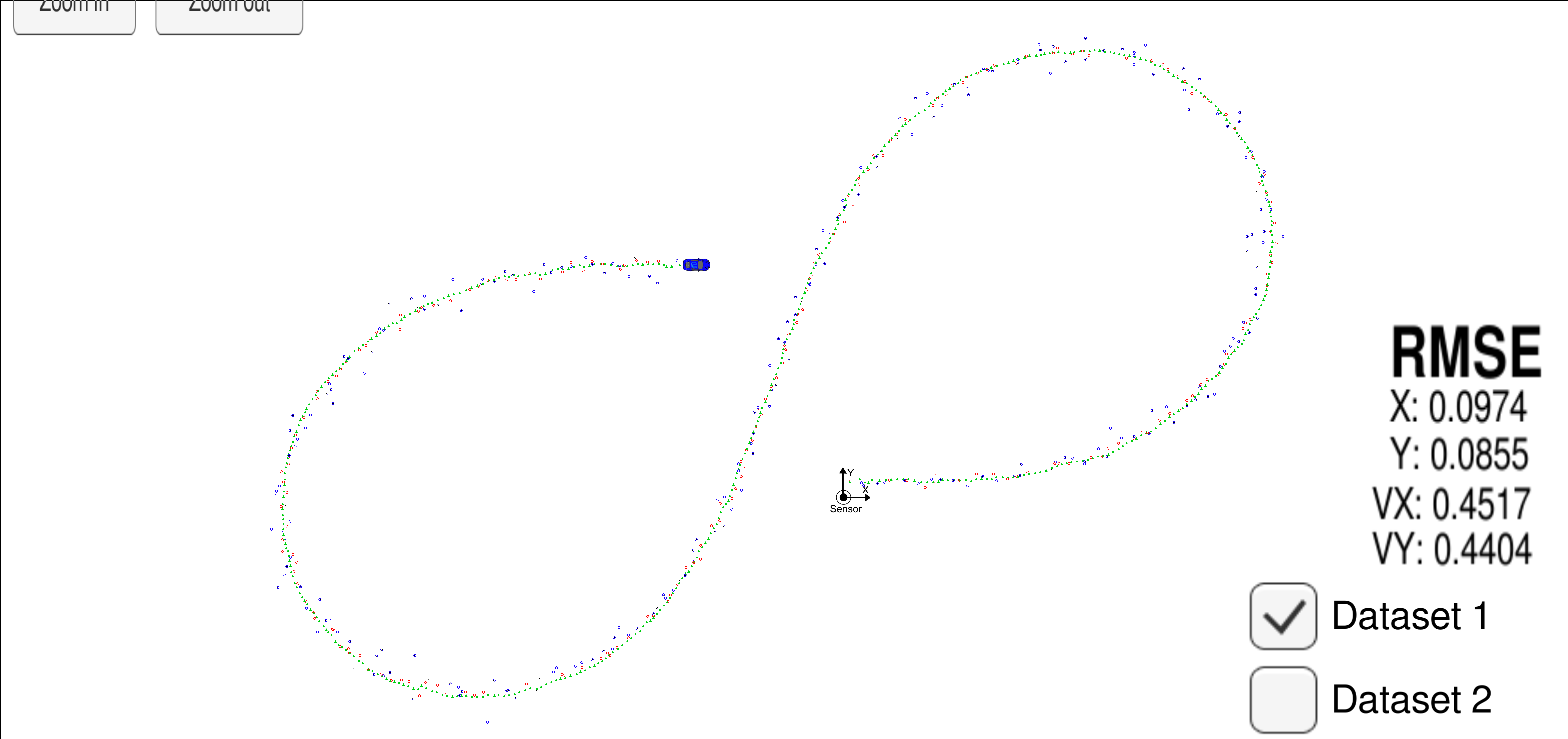
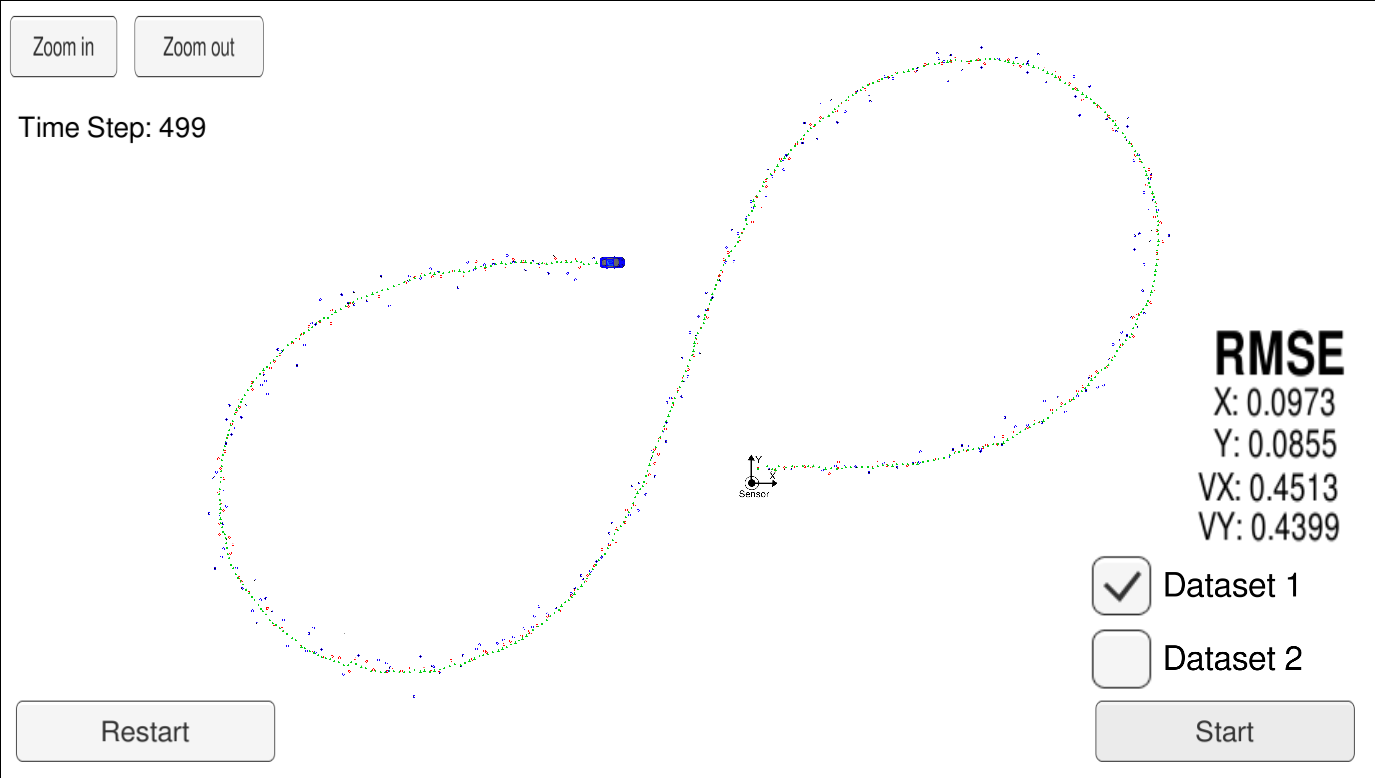
final

diff --git a/src/kalman_filter.cpp b/src/kalman_filter.cpp
@@ -71,7 +71,15 @@ void KalmanFilter::UpdateEKF(const VectorXd &z) {
     z_pred << rho, theta, rho_dot;
     
     VectorXd y = z - z_pred;
-    y[1] -= (2 * M_PI) * floor((y[1] + M_PI) / (2 * M_PI));
+    
+    // atan2() returns values between -pi and pi.
+
+    if( y[1] > M_PI )
+      y[1] -= 2.f*M_PI;
+    if( y[1] < -M_PI )
+      y[1] += 2.f*M_PI;
+
+
     MatrixXd Ht = H_.transpose();
     MatrixXd S = H_ * P_ * Ht + R_;
     MatrixXd Si = S.inverse();
